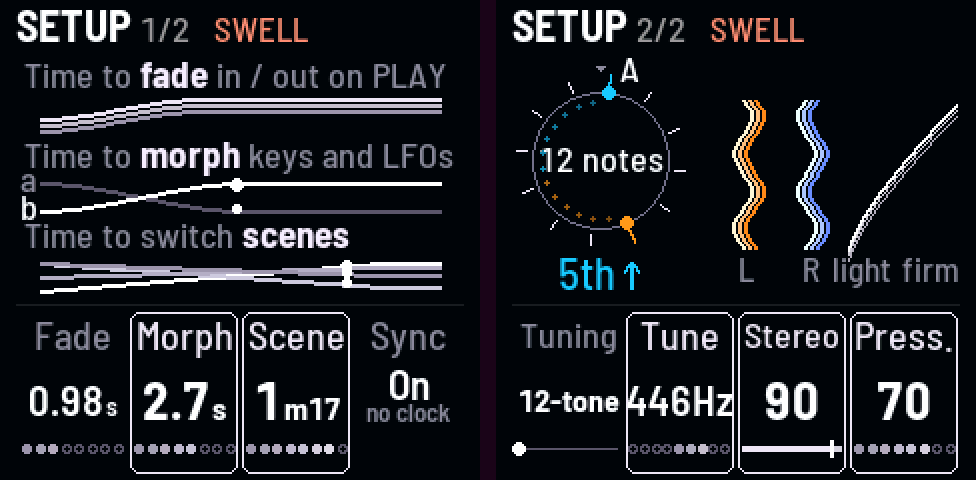
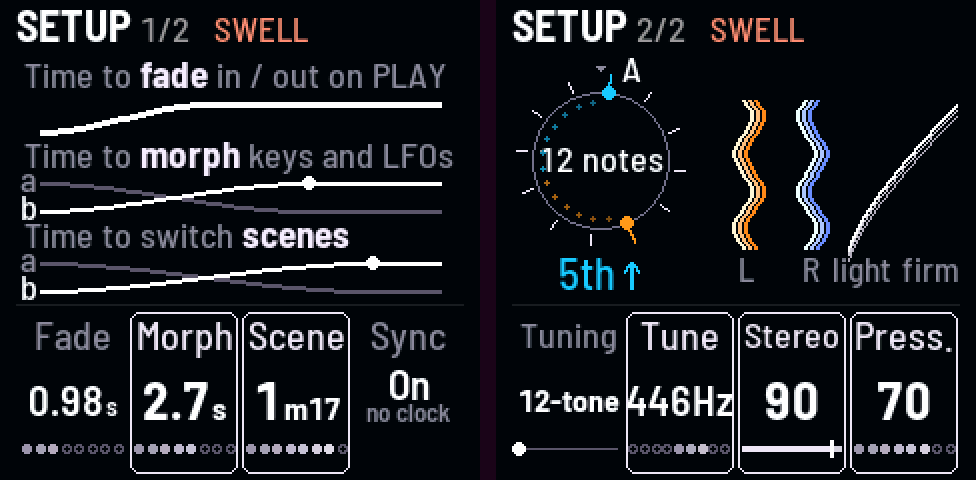
Setup 1: each row its knob's whole range (all the way reaches the end), a still dot where the change ends, Fade one thick line, Scene drawn as Morph; Setup 2: A and the 1/1 off the ring, Harrison and Harmonics smaller (Evan, 2026-11-07)

diff --git a/firmware/src/app/look.c b/firmware/src/app/look.c
@@ -1428,83 +1428,49 @@ static void lk_pic_mods(void)
 
 /* ---------------------------------------------------- Setup 1's picture --- */
 /* a row per time (the board, GLO 130:1852; the spec, 2026-11-01): its title, the knob's word bold ("Time to fade in /
- * out on PLAY"), and a symbol on one log time scale (0.02 s at x 20 .. 5 min at x 220, unlabeled) ending at the knob's
- * time: Fade the drones rising from silence; Morph a crossfade, a going out as b comes in; Scene the settings gliding
- * each in a straight line to the scene's. The knob being turned gets a dot running its symbol at its time, then a rest;
- * on a MIDI clock the Scene time is its bars at the tempo */
-static int32_t lk_t_x(float s)                 /* a time on the scale */
-{
-    return 20 + (int32_t)(200.0f * fm_clampf(fm_logf(fm_maxf(s, 0.02f) * 50.0f) * (1.0f / 9.6158f), 0.0f, 1.0f) + 0.5f);
-}
+ * out on PLAY"), and a symbol across the row ending where its knob is: the knob's whole range is the row (Evan,
+ * 2026-11-07: turned all the way, it reaches the end), so the change takes the row's first part and the rest is its
+ * new setting. Fade one thick line up from silence (the board's); Morph and Scene a crossfade, a out as b comes in (he
+ * liked Morph's better than Scene's straight lines). The knob being turned marks its time with a dot where the change
+ * ends; on a MIDI clock Scene's knob is its bars */
 static float lk_ease(float u) { u = fm_clampf(u, 0.0f, 1.0f); return u * u * (3.0f - 2.0f * u); }
 static void lk_pic_setup1(void)
 {
     static const char *const PRE[3] = {"Time to ", "Time to ", "Time to switch "},
                              *const BOLD[3] = {"fade", "morph", "scenes"},
                              *const POST[3] = {" in / out on PLAY", " keys and LFOs", ""};
-    const float secs[3] = {fade_s(), morph_ms() * 0.001f,
-                           dr_ext_spb > 0.0f ? (float)DR_BARS_N[(unsigned)proj.par[P_SCENE_BARS] < DR_NBARS ?
-                                                                 proj.par[P_SCENE_BARS] : 2] * 4.0f * dr_ext_spb / DR_SR
-                                             : 0.1f * fm_exp2f((float)proj.par[P_SCENE_T] * 0.115507f)};
+    const float frac[3] = {(float)proj.par[P_FADE] * 0.01f, (float)proj.par[P_MORPH] * 0.01f,
+                           dr_ext_spb > 0.0f ? (float)proj.par[P_SCENE_BARS] / (float)(DR_NBARS - 1)
+                                             : (float)proj.par[P_SCENE_T] * 0.01f};
     int r, i, s;
     for (r = 0; r < 3; r++) {
-        const int32_t base = 16 + 40 * r, top = base + (r ? 7 : 5), bot = base + (r ? 21 : 15), xe = lk_t_x(secs[r]);   /* Fade's
-                                                * strands below it, to 21 */
-        const int on = lit(r);
+        const int32_t base = 16 + 40 * r, top = base + 7, bot = base + 21;
+        const int32_t xe = 20 + (int32_t)(fm_clampf(frac[r], 0.0f, 1.0f) * 200.0f + 0.5f);
         int16_t y[101];
         int32_t x = 12;                        /* words at 18, the knob's in bold (19: the one bold near it); the
                                                 * longest, morph's, 215 px */
-        float dot = -1.0f;                     /* the dot's place in the change, 0..1 (-1: none) */
         x = cv_text(x, base - LK_B(LK_F_SMALL), &LK_F_SMALL, PRE[r], LK_LABEL);
         x = cv_text(x, base - LK_B(FONT_B), &FONT_B, BOLD[r], LK_INK);
         cv_text(x, base - LK_B(LK_F_SMALL), &LK_F_SMALL, POST[r], LK_LABEL);
-        if (on) {                              /* running at the knob's time, then a rest of a second */
-            const float t = secs[r], e = (float)(plat_ms() % (uint32_t)(1000.0f * (t + 1.0f) + 0.5f)) * 0.001f;
-            dot = e < t ? (float)(lk_t_x(e) - 20) / (float)(xe > 20 ? xe - 20 : 1) : 1.0f;
-        }
-        if (r == 0) {                          /* FADE: silence up to full, three strands */
+        for (s = r ? 0 : 1; s < 2; s++) {     /* s 0: a going out; 1: b coming in (Fade's rise) */
             for (i = 0; i <= 100; i++) {
                 const int32_t xi = 20 + 2 * i;
-                y[i] = (int16_t)(bot - (int32_t)((float)(bot - top) * (xi >= xe ? 1.0f : lk_ease((float)(xi - 20) / (float)(xe > 20 ? xe - 20 : 1))) + 0.5f));
+                const float u = xi >= xe ? 1.0f : lk_ease((float)(xi - 20) / (float)(xe > 20 ? xe - 20 : 1));
+                y[i] = (int16_t)(s ? bot - (int32_t)((float)(bot - top) * u + 0.5f) : top + (int32_t)((float)(bot - top) * u + 0.5f));
             }
-            lk_bundle_n(20, y, 101, LK_G, 0, 3, 3, 1.0f);   /* 3 px apart, as Sub · Drive's */
-            if (dot >= 0.0f) {
-                const int32_t px = 20 + (int32_t)(dot * (float)(xe - 20)), py = bot - (int32_t)((float)(bot - top) * lk_ease(dot));
-                cv_round(px - 3, py - 3, 7, 7, 3, LK_WHITE);
-            }
-        } else if (r == 1) {                   /* MORPH: a out, b in */
-            for (s = 0; s < 2; s++) {
-                for (i = 0; i <= 100; i++) {
-                    const int32_t xi = 20 + 2 * i;
-                    const float u = xi >= xe ? 1.0f : lk_ease((float)(xi - 20) / (float)(xe > 20 ? xe - 20 : 1));
-                    y[i] = (int16_t)(s ? bot - (int32_t)((float)(bot - top) * u + 0.5f) : top + (int32_t)((float)(bot - top) * u + 0.5f));
-                }
-                lk_plot(20, y, 101, s ? LK_WHITE : LK_UNLIT);
-                if (dot >= 0.0f) {
-                    const float u = lk_ease(dot);
-                    const int32_t px = 20 + (int32_t)(dot * (float)(xe - 20)),
-                                  py = s ? bot - (int32_t)((float)(bot - top) * u) : top + (int32_t)((float)(bot - top) * u);
-                    cv_round(px - (s ? 3 : 2), py - (s ? 3 : 2), s ? 7 : 5, s ? 7 : 5, s ? 3 : 2, LK_WHITE);
-                }
-            }
-            cv_text(10, top - LK_B(LK_F_SMALL) + 5, &LK_F_SMALL, "a", LK_LABEL);   /* beside where each starts */
-            cv_text(10, bot - LK_B(LK_F_SMALL) + 5, &LK_F_SMALL, "b", LK_WHITE);
-        } else {                               /* SCENE: four settings, each a straight line to the scene's */
-            static const int8_t A[4] = {14, 0, 7, 0}, B[4] = {0, 12, 2, 6};
-            for (s = 0; s < 4; s++) {
-                for (i = 0; i <= 100; i++) {
-                    const int32_t xi = 20 + 2 * i;
-                    const float u = xi >= xe ? 1.0f : (float)(xi - 20) / (float)(xe > 20 ? xe - 20 : 1);
-                    y[i] = (int16_t)(top + A[s] + (int32_t)((float)(B[s] - A[s]) * u + (B[s] > A[s] ? 0.5f : -0.5f)));
-                }
-                lk_plot(20, y, 101, s == 0 ? LK_WHITE : lk_ramp(LK_G, 1.0f - 0.33f * (float)s));
-                if (dot >= 0.0f) {
-                    const int32_t px = 20 + (int32_t)(dot * (float)(xe - 20)),
-                                  py = top + A[s] + (int32_t)((float)(B[s] - A[s]) * dot);
-                    cv_round(px - (s ? 2 : 3), py - (s ? 2 : 3), s ? 5 : 7, s ? 5 : 7, s ? 2 : 3, LK_WHITE);
-                }
+            lk_plot(20, y, 101, s ? LK_WHITE : LK_UNLIT);
+            if (!r) {                          /* Fade: one thick line, 3 px */
+                for (i = 0; i <= 100; i++)
+                    y[i]++;
+                lk_plot(20, y, 101, LK_WHITE);
             }
         }
+        if (r) {
+            cv_text(10, top - LK_B(LK_F_SMALL) + 5, &LK_F_SMALL, "a", LK_LABEL);   /* beside where each starts */
+            cv_text(10, bot - LK_B(LK_F_SMALL) + 5, &LK_F_SMALL, "b", LK_WHITE);
+        }
+        if (lit(r))                            /* the knob's time: where the change ends */
+            cv_round(xe - 3, top - 3 + (r ? 0 : 1), 7, 7, 3, LK_WHITE);
     }
 }
 
@@ -1614,14 +1580,15 @@ static void lk_pic_setup2(void)
         }
         if (!moves) {                          /* A on its tick */
             int32_t ax, ay;
-            lk_polar(cx, cy, tc, (float)R + 8.0f, &ax, &ay);   /* beside its tick's tip, right of the notch */
-            cv_text(ax + 5, ay - LK_B(LK_F_SMALL) + 3, &LK_F_SMALL, "A", LK_WHITE);
+            lk_polar(cx, cy, tc, (float)R + 10.0f, &ax, &ay);   /* beside its tick's tip, right of the notch, a
+                                                * little off the ring (Evan, 2026-11-07) */
+            cv_text(ax + 6, ay - LK_B(LK_F_SMALL) / 2 - 3, &LK_F_SMALL, "A", LK_WHITE);
         }
         {   /* the 1/1 on its tick (none on the equal ones) */
             const int one = t == DR_TUN_LMY ? 294 : t == DR_TUN_HARRISON || t == DR_TUN_PARTCH ? 996 : 0;
             if (pure && t != DR_TUN_HARM && !moves) {
                 int32_t ox, oy;
-                lk_polar(cx, cy, (float)one + tc, (float)R + 18.0f, &ox, &oy);
+                lk_polar(cx, cy, (float)one + tc, (float)R + 22.0f, &ox, &oy);   /* off the ring (Evan) */
                 ox = ox < 12 ? 12 : ox > 110 ? 110 : ox;   /* on the screen (Harrison's, Partch's at the left) */
                 text_c(ox, oy - LK_B(LK_F_TAG) / 2 - 2, &LK_F_TAG, "1/1", LK_NEUTRAL);
             }
@@ -2401,8 +2368,12 @@ static void lk_values(void)
             for (sp = t; *sp && !(*sp >= 'a' && *sp <= 'z' && sp > t && sp[-1] >= '0' && sp[-1] <= '9'); sp++)
                 ;
         {
-            static const felucca_font_t *const BIG[4] = {&FONT_N1, &FONT_N2, &FONT_U1, &FONT_U2},
-                                         *const SMALL[4] = {&FONT_U1, &FONT_U2, &FONT_U2, &FONT_U2};
+            static const felucca_font_t *const BIG[6] = {&FONT_N1, &FONT_N2, &FONT_U1, &FONT_U2, &FONT_XS, &FONT_U3},
+                                         *const SMALL[6] = {&FONT_U1, &FONT_U2, &FONT_U2, &FONT_U2, &FONT_U2, &FONT_U2};
+            static const uint8_t TUN_STEP[6] = {0, 1, 2, 4, 3, 5};   /* the Tuning's: 26, 21, 16, 15, 13, 12, to fit 52
+                                                                      * px ("Harrison" 15, "Harmonics" 12; Evan,
+                                                                      * 2026-11-07: a little smaller) */
+            const int tun = p == P_TUNING;
             char big[16];
             const int nb = (int)(sp - t), sep = *sp == ' ' ? 3 : 1;
             const char *unit = *sp == ' ' ? sp + 1 : sp;
@@ -2417,12 +2388,14 @@ static void lk_values(void)
             }
             for (;; f++) {                     /* as large as fits: 26 turning, 21 at rest, else 16, else 13 (a long
                                                 * name: "Cathedral", "Chorus hall", the board's size) */
-                fb = BIG[f];
-                fs = SMALL[f];
+                const int k = tun ? TUN_STEP[f] : f;
+                fb = BIG[k];
+                fs = SMALL[k];
                 wb = text_w(fb, big);
                 ws = *unit ? sep + text_w(fs, unit) : 0;
-                if (wb + ws <= (f == 0 ? 50 : 58) || f == 3)   /* 26 inside the outline; 21 may touch the column's
-                                                                 * edges (a note and its cents, "Ab3 +17") */
+                if (wb + ws <= (f == 0 ? 50 : tun ? 52 : 58) || f == (tun ? 5 : 3))   /* 26 inside the outline; 21
+                                                                 * may touch the column's edges (a note and its cents,
+                                                                 * "Ab3 +17") */
                     break;
             }
             y = 9 + (int32_t)FONT_T20.h + (62 - (int32_t)FONT_T20.h - (int32_t)fb->h) / 2;

diff --git a/tools/gen_font.py b/tools/gen_font.py
@@ -35,6 +35,7 @@ FONTSETS = {
                ("N2", "BarlowSemiCondensed-SemiBold.ttf", 21, 1, False, 32, 126),
                ("U1", "BarlowSemiCondensed-Bold.ttf", 16, 1, False, 32, 126),
                ("U2", "BarlowSemiCondensed-SemiBold.ttf", 13, 1, False, 32, 126),
+               ("U3", "BarlowSemiCondensed-SemiBold.ttf", 12, 1, False, 32, 126),   # a long Tuning's name ("Harmonics")
                ("H22", "BarlowSemiCondensed-Bold.ttf", 22, 1, False, 32, 126),
                ("T22", "BarlowSemiCondensed-Medium.ttf", 22, 1, False, 32, 126),
                ("T20", "BarlowSemiCondensed-Medium.ttf", 20, 1, False, 32, 126),

diff --git a/docs/decisions.md b/docs/decisions.md
@@ -598,9 +598,9 @@ at the end. The current state is in the [README](../README.md) and the code.
   locked with the Swell stopped, "on Swell" dimmed (was "waits Swell", too wide beside the waves); "mvmt 0%" in the
   rate's place when Movement is 0 (the rate isn't heard then).
 - 2026-11-07: Setup 1 and 2 in the new look (PR G; the overlays moved to their own PR, H). Setup 1: a row per time,
-  its title with the knob's word bold, a symbol on one log scale (0.02 s at x 20 .. 5 min at x 220): Fade three strands
-  up from silence, Morph a crossfade (a out, b in), Scene four settings in straight lines; a dot runs the row of the
-  knob being turned at its time, then rests a second; on a clock, Scene's symbol is its bars at the tempo. KNOB 4
+  its title with the knob's word bold, a symbol across the row ending where its knob is (the knob's whole range the
+  row; Evan: turned all the way it reaches the end): Fade one thick line up from silence, Morph and Scene a crossfade
+  (a out, b in); the knob being turned marks its time with a dot there; on a clock, Scene's knob is its bars. KNOB 4
   **Sync**: on (default) follows a MIDI clock, off ignores it and forgets its tempo (the Swell, LFO, delay, Wander and
   Scene time back on their knobs), a Start too; under it "no clock", "120 BPM", "keeps 120" or "free time"; a room
   setting (`P_CLK_SYNC`, the 112th value; `P_SYNC` is hard sync). Setup 2: Tuning and Tune one ring (an octave
@@ -610,4 +610,5 @@ at the end. The current state is in the [README](../README.md) and the code.
   apart as it puts them; Pressure the curve with the key pressed ("[C4] 62%"). **Tune in Hz**: A's pitch in tenths of
   a Hz from 440 (427.0 .. 453.0), 1 Hz a click, 0.1 with SEL; a saved Tune in cents becomes the nearest 0.1 Hz (at
   most 0.2 cents off: -32 cents is 431.9 Hz). PROJ_FORMAT 41 (39-40's 111 values widened). Meters: Tuning a marker on
-  a track, Tune a dot row from the middle, Stereo a slider; Sync none, its line says it.
+  a track, Tune a dot row from the middle, Stereo a slider; Sync none, its line says it. A long Tuning's name steps
+  down to 15 ("Harrison") or 12 ("Harmonics", a new 12 px font) to fit 52 px; A and the 1/1 a little off the ring.

diff --git a/README.md b/README.md
@@ -454,8 +454,8 @@ Everything on GLO belongs to the FM-1 and the room, not to a sound: scenes don't
 - **Fade** is how long PLAY takes (up to 60 s); **Morph** is how long a black key or a new LFO wave (OCT) takes
   to move the sound to its new setting (0.02–30 s); **Scene time** is how long every scene move takes: a tap, a
   crossfade pressed all the way in at once, and the way back (0.1 s to 5 minutes; about 15 s to start). The picture
-  is a row for each, on one time scale: a fade up from silence, a crossfade (a out, b in), the settings gliding in
-  straight lines; turn a knob and a dot runs its row at that time.
+  is a row for each, its knob's whole range across it: the fade a line up from silence, Morph and the scenes a
+  crossfade (a out, b in), each change ending where its knob is (a dot there while you turn it).
 - **Sync** (KNOB 4): **On** follows a MIDI clock (see MIDI below), **Off** ignores it, so the Swell, the LFO, the
   delay, Wander and the Scene time run on their own knobs again. Under it, what the clock is doing: "no clock",
   "120 BPM", "keeps 120" (stopped or unplugged, at the last tempo) or "free time" (off).
